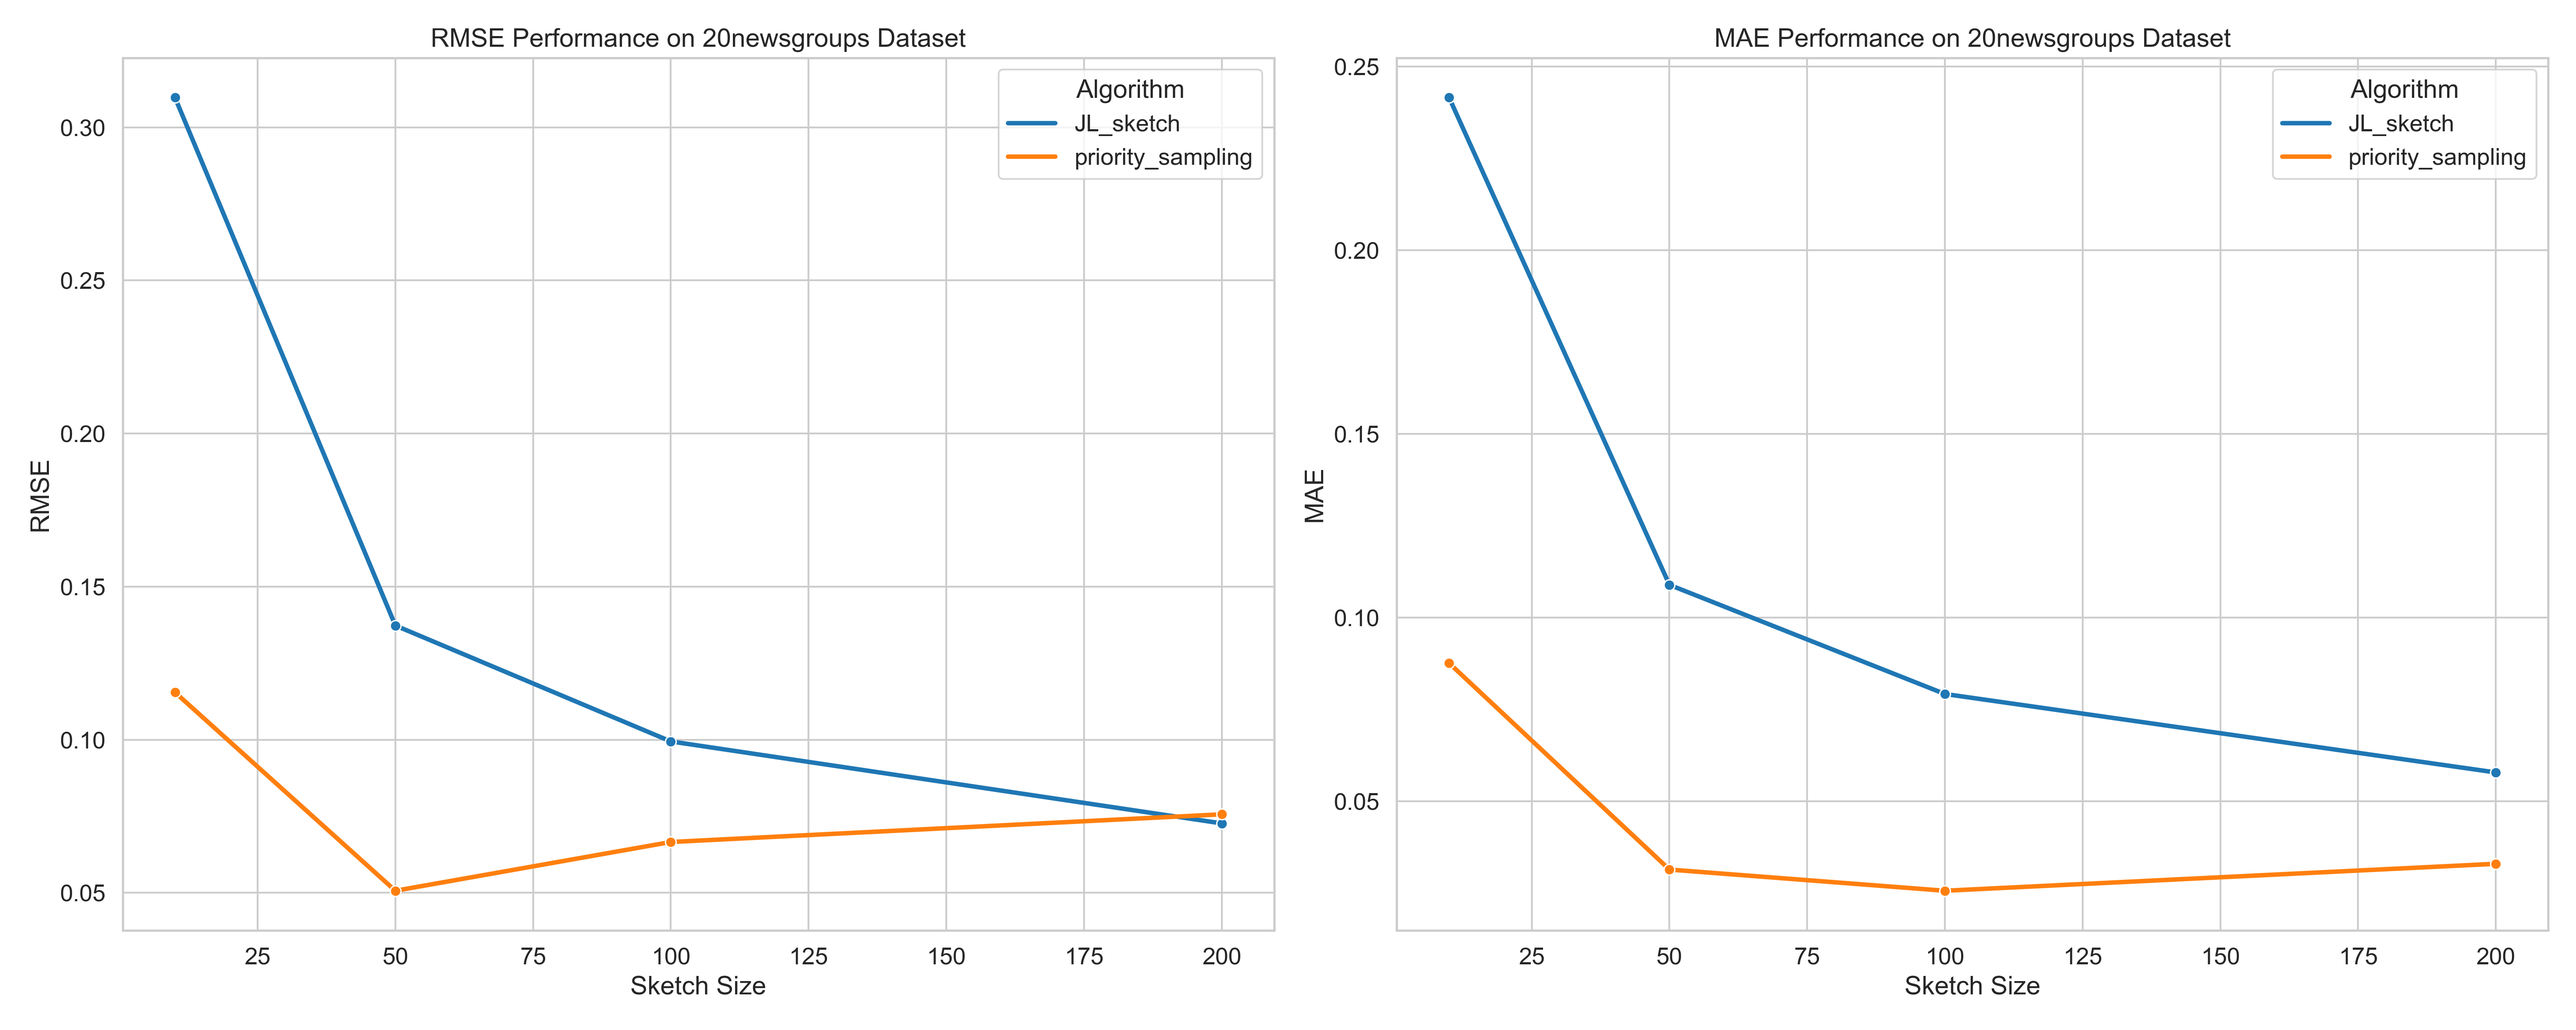
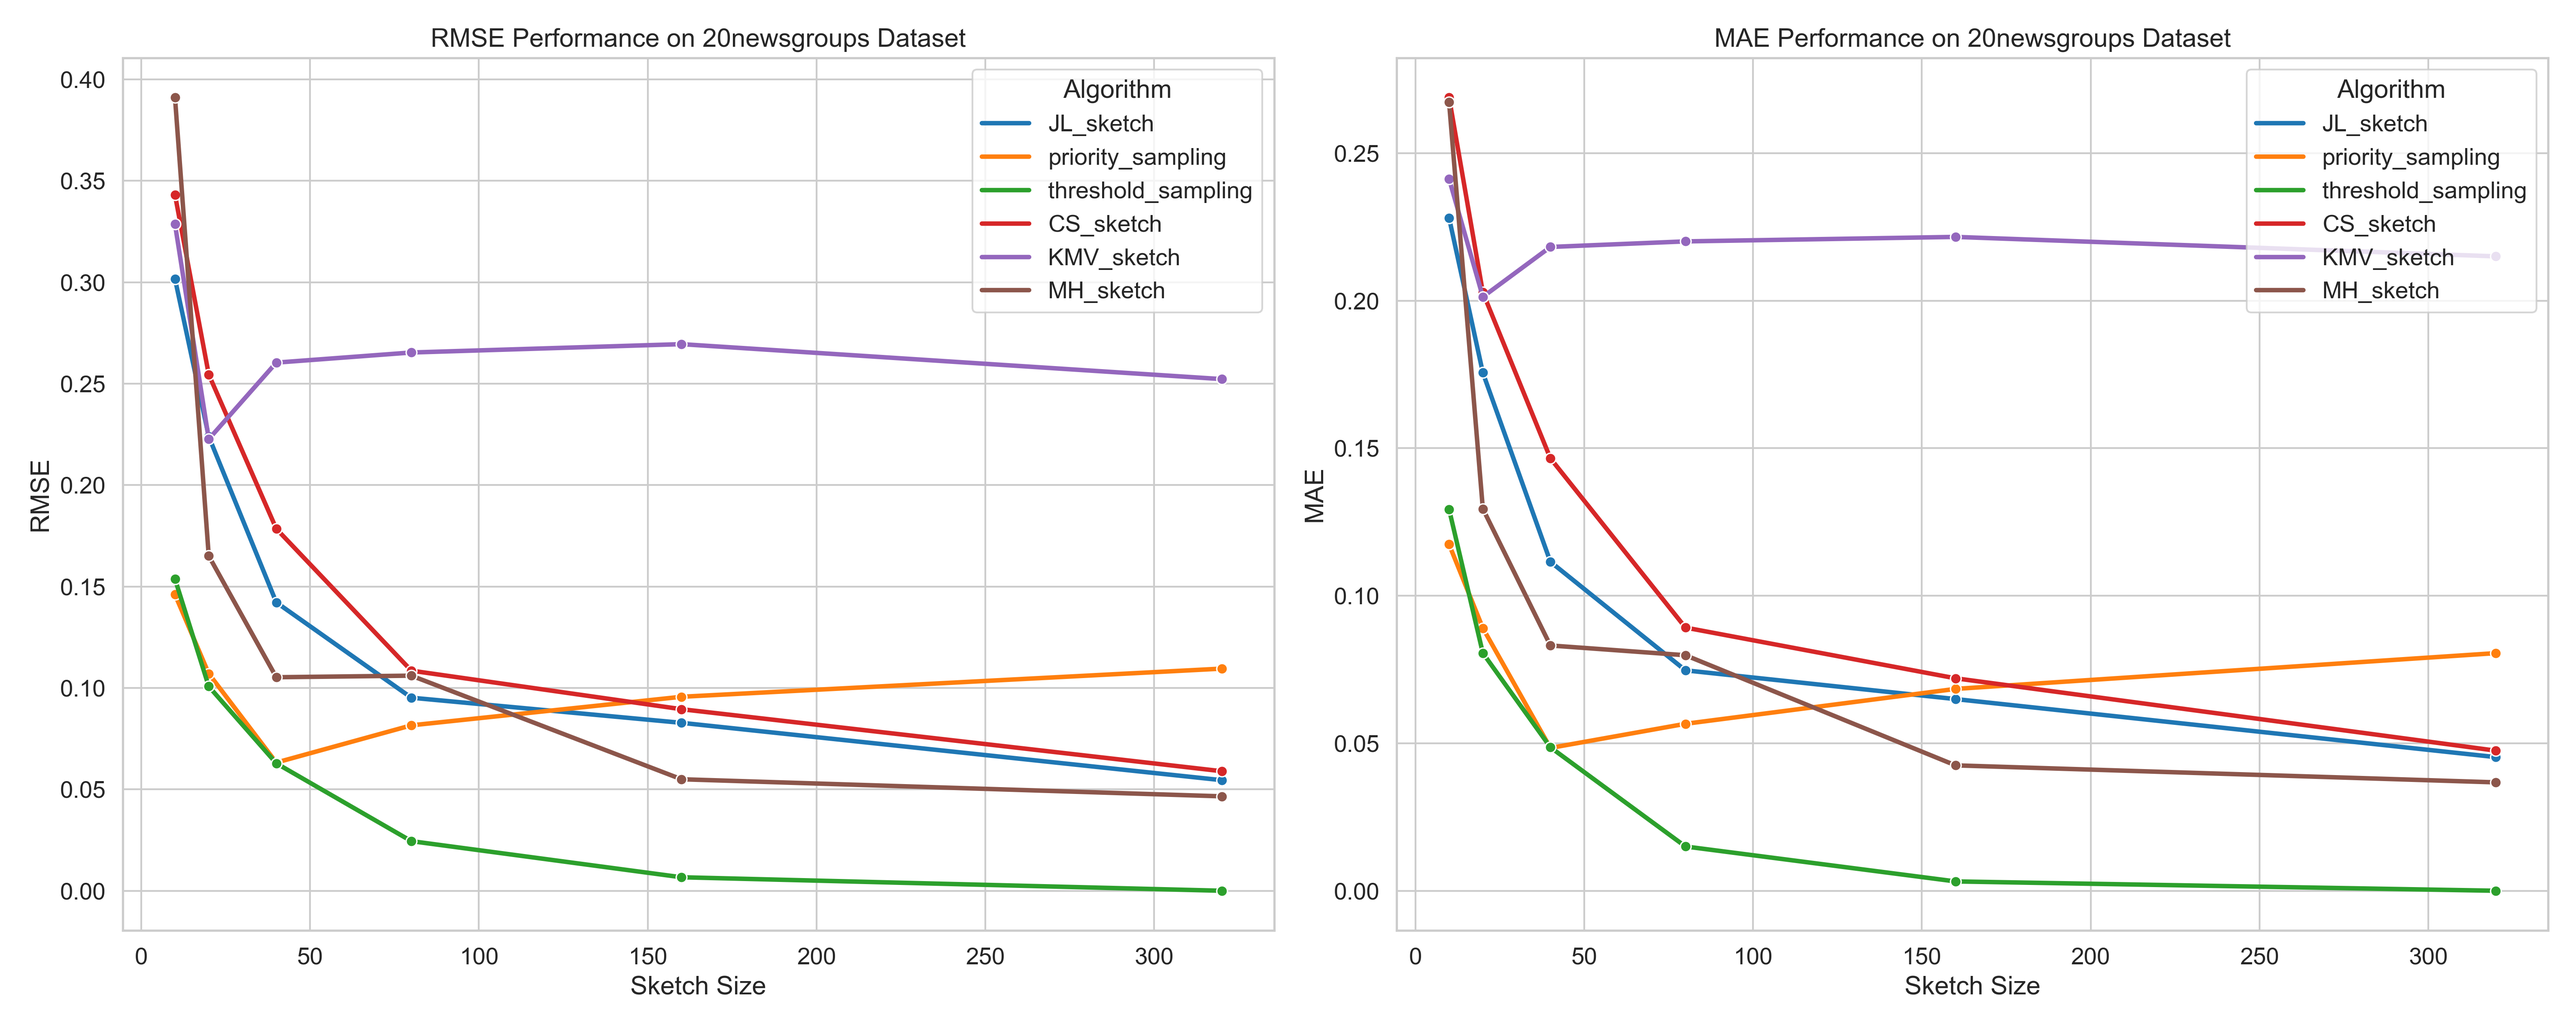
Add plot and supermain

diff --git a/plot.py b/plot.py
@@ -37,21 +37,59 @@ ax2.legend(title='Algorithm', loc='upper right')
 plt.tight_layout()
 plt.savefig('20newsgroups_performance.png', dpi=300)
 
+# 算法在自己生成的数据集上的性能比较图 (RMSE)
+plt.figure(figsize=(18, 6))
+g = sns.relplot(x='sketch_size', y='RMSE', hue='algorithm', col='sparsity',
+                data=results_df[results_df['dataset'] == 'generated'],
+                kind='line', marker='o',
+                facet_kws={'sharex': False, 'sharey': True, 'legend_out': True},
+                col_wrap=3, height=5, aspect=1.2)
 
-# 算法在自己生成的数据集上的性能比较图
-plt.figure(figsize=(16, 12))
-sns.relplot(x='sketch_size', y='RMSE', hue='algorithm', col='sparsity', data=results_df[results_df['dataset'] == 'generated'], kind='line', marker='o', facet_kws={'sharex': False, 'sharey': True, 'legend_out': True})
-plt.subplots_adjust(top=0.9)
-plt.suptitle('Algorithm Performance on Generated Dataset (RMSE)', fontsize=16)
-plt.tight_layout()
-plt.savefig('generated_dataset_rmse.png', dpi=300)
+g.set(yscale='log', xlabel='Sketch Size', ylabel='RMSE')  # 设置 y 轴为对数刻度, 并添加轴标签
+g.fig.suptitle('Algorithm Performance on Generated Dataset (RMSE)', fontsize=18, y=1.05)
+g.fig.subplots_adjust(top=0.8, wspace=0.2, hspace=0.2)
 
-plt.figure(figsize=(16, 12))
-sns.relplot(x='sketch_size', y='MAE', hue='algorithm', col='sparsity', data=results_df[results_df['dataset'] == 'generated'], kind='line', marker='o', facet_kws={'sharex': False, 'sharey': True, 'legend_out': True})
-plt.subplots_adjust(top=0.9)
-plt.suptitle('Algorithm Performance on Generated Dataset (MAE)', fontsize=16)
+# 调整图例位置
+legend = g.axes[-1].legend(bbox_to_anchor=(1.02, 0.5), loc='center left', borderaxespad=0.)
+legend.get_frame().set_alpha(0.8)  # 设置图例背景的透明度
+
+for i, ax in enumerate(g.axes):
+    ax.set_title(f'Sparsity: {ax.get_title().split("=")[1].strip()}', fontsize=14)  # 调整子图标题的格式和字体大小
+
+    if i % 3 != 0:  # 除了第一列的子图,其他子图隐藏y轴标签
+        ax.set_ylabel('')
+
+    ax.grid(True, linestyle='--', alpha=0.7)  # 添加网格线
+
 plt.tight_layout()
-plt.savefig('generated_dataset_mae.png', dpi=300)
+plt.savefig('generated_dataset_rmse.png', dpi=300, bbox_inches='tight')
+
+# 算法在自己生成的数据集上的性能比较图 (MAE)
+plt.figure(figsize=(18, 6))
+g = sns.relplot(x='sketch_size', y='MAE', hue='algorithm', col='sparsity',
+                data=results_df[results_df['dataset'] == 'generated'],
+                kind='line', marker='o',
+                facet_kws={'sharex': False, 'sharey': True, 'legend_out': True},
+                col_wrap=3, height=5, aspect=1.2)
+
+g.set(yscale='log', xlabel='Sketch Size', ylabel='MAE')  # 设置 y 轴为对数刻度, 并添加轴标签
+g.fig.suptitle('Algorithm Performance on Generated Dataset (MAE)', fontsize=18, y=1.05)
+g.fig.subplots_adjust(top=0.8, wspace=0.2, hspace=0.2)
+
+# 调整图例位置
+legend = g.axes[-1].legend(bbox_to_anchor=(1.02, 0.5), loc='center left', borderaxespad=0.)
+legend.get_frame().set_alpha(0.8)  # 设置图例背景的透明度
+
+for i, ax in enumerate(g.axes):
+    ax.set_title(f'Sparsity: {ax.get_title().split("=")[1].strip()}', fontsize=14)  # 调整子图标题的格式和字体大小
+
+    if i % 3 != 0:  # 除了第一列的子图,其他子图隐藏y轴标签
+        ax.set_ylabel('')
+
+    ax.grid(True, linestyle='--', alpha=0.7)  # 添加网格线
+
+plt.tight_layout()
+plt.savefig('generated_dataset_mae.png', dpi=300, bbox_inches='tight')
 
 # 绘制算法执行时间比较图
 # 在绘制算法执行时间比较图之前,对数据进行分组和聚合

diff --git a/supermain.py b/supermain.py
@@ -1,22 +1,30 @@
 import argparse
 import pandas as pd
+
+from algorithms.KMV_MH_sketch import KMV_sketch, MH_sketch
+from algorithms.base_line import base_line
 from main import run_benchmark
 from utils.utils import load_dataset, save_results
-from algorithms.JL_sketch import JL_sketch
+from algorithms.JL_sketch import JL_sketch, CS_sketch
 from algorithms.priority_sampling import priority_sampling
+from algorithms.threshold_sampling import threshold_sampling
 from tqdm import tqdm
 
 algorithms = {
     'JL_sketch': JL_sketch,
-    'priority_sampling': priority_sampling
+    'priority_sampling': priority_sampling,
+    'threshold_sampling': threshold_sampling,
+    'CS_sketch': CS_sketch,
+    'KMV_sketch': KMV_sketch,
+    'MH_sketch': MH_sketch,
 }
 
 datasets = {
     '20newsgroups': {'type': 'provided', 'config': {}},
-    'generated': {'type': 'generated', 'config': {'data_shape': [50, 500, 500, 50], 'sparsity': [0.3,0.6,0.9], 'vector': False, 'type': 'normal', 'precision': 'float', 'mean': 1, 'deviation': 1}}
+    'generated': {'type': 'generated', 'config': {'data_shape': [10, 750, 750, 10], 'sparsity': [0.3,0.6,0.9], 'vector': False, 'type': 'normal', 'precision': 'float', 'mean': 1, 'deviation': 1}}
 }
 
-sketch_sizes = [10,50,100,200]
+sketch_sizes = [10,20,40,80,160,320]
 num_runs = 3
 
 total_runs =  len(algorithms) * len(sketch_sizes) * num_runs

diff --git a/datasets/newsgroup20_adaptor.py b/datasets/newsgroup20_adaptor.py
@@ -11,8 +11,8 @@ class NewsGroup20Adaptor(DatasetAdaptor):
         newsgroups_train = fetch_20newsgroups(subset='train')
         newsgroups_test = fetch_20newsgroups(subset='test')
 
-        train_data = resample(newsgroups_train.data, n_samples=100, random_state=42)
-        test_data = resample(newsgroups_test.data, n_samples=100, random_state=42)
+        train_data = resample(newsgroups_train.data, n_samples=10, random_state=42)
+        test_data = resample(newsgroups_test.data, n_samples=10, random_state=42)
         return train_data, test_data
 
     def preprocess_data(self, data):
@@ -22,5 +22,8 @@ class NewsGroup20Adaptor(DatasetAdaptor):
         # # Print the shape of the output vectors
         # print(f"Training data shape: {X_train.shape}")
         # print(f"Testing data shape: {X_test.shape}")
-        # print(f"Vocabulary size: {len(vectorizer.vocabulary_)}")
+        print(f"Vocabulary size: {len(vectorizer.vocabulary_)}")
+        #(5,490)
+        #(10,751)
+        #(100,5580)
         return X_train, X_test
